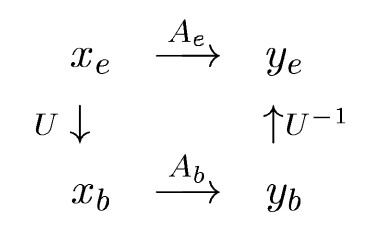
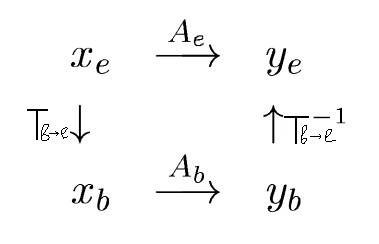
Поправки в 17, 21, 22 билетах (улучшения, связанные с матрицей перехода от базиса к базису, с матрицей линейного оператора и с преобразованиями координат вектора одного базиса в другой)

Changed region(s): [[0.058, 0.4303, 0.1741, 0.5738], [0.7546, 0.459, 0.8707, 0.6025]]

diff --git a/tickets/module1/ticket17.tex b/tickets/module1/ticket17.tex
@@ -27,17 +27,35 @@ $$\vec{c_i} = b \begin{pmatrix} \alpha_{1i} \\ \vdots \\ \alpha_{ni} \end{pmatri
 
 или
 
-$$c = bU,$$
+$$c = bT_{b \to c},$$
 
 где
 
 \begin{equation*}
-    U = \left(\begin{array}{ccc}
+    T_{b \to c} = \left(\begin{array}{ccc}
         \alpha_{11} & \ldots & \alpha_{1n} \\
         \hdotsfor{3} \\
         \alpha_{n1} & \ldots & \alpha_{nn}
     \end{array}\right).
 \end{equation*}
+
+\subsection{
+    *Полезное дополнение про преобразование координат вектора при переходе от старого базиса к новому.
+}
+
+Выберем произвольный вектор $\vec{x} \in \mathcal{L}$ и разложим его в старом базисе $b$:
+
+$$\vec{x} = bx_b, \quad \quad x_b = \begin{pmatrix} x_1 \\ \vdots \\ x_n \end{pmatrix}.$$
+
+Разложение того же вектора в новом базисе $c$ имеет вид:
+
+$$\vec{x} = cx_c, \quad \quad x_c = \begin{pmatrix} x_1' \\ \vdots \\ x_n' \end{pmatrix}.$$
+
+Найдем связь между старыми координатами $x_b$ вектора $\vec{x}$ и его новыми координатами $x_c$. Из соотношений выше следует, что $bx_b = cx_c$. Учитывая, что $c = bT_{b \to c}$, получаем 
+$$bx_b = (bT_{b \to c})x_c,$$ или 
+$$bx_b = b(T_{b \to c}x_c).$$ 
+Последнее равенство можно рассматривать как запись двух разложений одного и того же вектора $\vec{x}$ в базисе $b$. Разложениями соответствуют столбцы координат $x_b$ и $T_{b \to c}x_c$, которые, согласно теореме \ref{thm:theorem_2_3} о единственности разложения вектора по базису, должны быть равны:
+$$x_b = T_{b \to c}x_c, \quad \quad \text{или} \quad \quad x_c = T^{-1}_{b \to c}x_b.$$
 
 
 \newpage
@@ -53,34 +71,33 @@ $$c = bU,$$
     \item Матрица перехода невырождена и всегда имеет обратную.
     \begin{proof}~
 
-        Столбцы матрицы перехода - столбцы координат векторов нового \textbf{базиса} в старом. Следовательно, они, как и векторы базиса, линейно независимы. Значит, матрица $U$ невырожденная и имеет обратную матрицу $U^{-1}$.
+        Столбцы матрицы перехода - столбцы координат векторов нового \textbf{базиса} в старом. Следовательно, они, как и векторы базиса, линейно независимы. Значит, матрица $T$ невырожденная и имеет обратную матрицу $T^{-1}$.
     \end{proof}
     
-    \item Если в $n$-мерном линейном пространстве задан базис $b$, то для любой невырожденной квадратной матрицы $U$ порядка $n$ существует такой базис $c$ в этом линейном пространстве, что $U$ будет матрицей перехода то базиса $b$ к базису $c$.
+    \item Если в $n$-мерном линейном пространстве задан базис $b$, то для любой невырожденной квадратной матрицы $T$ порядка $n$ существует такой базис $c$ в этом линейном пространстве, что $T$ будет матрицей перехода то базиса $b$ к базису $c$.
     \begin{proof}~
 
-        Из невырожденности матрицы $U$ следует, что ее ранг ранг равен $n$, и поэтому ее столбцы, будучи базисными, линейно независимы. Эти столбцы являются столбцами координат векторов системы $c = bU$. Линейная независимость столбцов матрицы $U$ равносильная линейной независимости системы векторов $c$. Так как система $c$ содержит $n$ векторов, причем линейное пространство $n$-мерно, то согласно теореме $\eqref{thm:theorem_2_1}$, эта система является базисом.
+        Из невырожденности матрицы $T$ следует, что ее ранг ранг равен $n$, и поэтому ее столбцы, будучи базисными, линейно независимы. Эти столбцы являются столбцами координат векторов системы $c = bT_{b \to c}$. Линейная независимость столбцов матрицы $T$ равносильна линейной независимости системы векторов $c$. Так как система $c$ содержит $n$ векторов, причем линейное пространство $n$-мерно, то согласно теореме $\eqref{thm:theorem_2_1}$, эта система является базисом.
     \end{proof}
     
-    \item Если $U$ - матрица перехода от старого базиса $b$ к новому базису $c$ линейного пространства, то $U^{-1}$ - матрица перехода от базиса $c$ к базису $b$.
+    \item Если $T_{b \to c}$ - матрица перехода от старого базиса $b$ к новому базису $c$ линейного пространства, то $T^{-1}_{b \to c}$ - матрица перехода от базиса $c$ к базису $b$.
     \begin{proof}~
 
-        Матрица $U$ невырождена, и поэтому из равенства $c = bU$ следует, что $cU^{-1} = b$. Последнее равенство означает, что столбцы матрицы $U^{-1}$ являются столбцами координат векторов $b$ относительно базиса $c$, т.е. согласно определению $\eqref{fig:definition_17_1}$ $U^{-1}$ - это матрица перехода от базиса $c$ к базису $b$.
+        Матрица $T_{b \to c}$ невырождена, и поэтому из равенства $c = bT_{b \to c}$ следует, что $cT^{-1}_{b \to c} = b$. Последнее равенство означает, что столбцы матрицы $T^{-1}_{b \to c}$ являются столбцами координат векторов $b$ относительно базиса $c$, т.е. согласно определению $\eqref{fig:definition_17_1}$ $T^{-1}_{b \to c}$ - это матрица перехода от базиса $c$ к базису $b$.
     \end{proof}
 
-    \item Если в линейном пространстве заданы базисы $b, c$ и $d$, причем $U$ - матрица перехода от базиса $b$ к новому базису $c$, а $V$ - матрица перехода от базиса $c$ к базису $d$, то произведение этих матриц $UV$ - матрица перехода от базиса $b$ к базису $d$.
+    \item Если в линейном пространстве заданы базисы $b, c$ и $d$, причем $T_{b \to c}$ - матрица перехода от базиса $b$ к новому базису $c$, а $U_{c \to d}$ - матрица перехода от базиса $c$ к базису $d$, то произведение этих матриц $T_{b \to c}U_{c \to d}$ - матрица перехода от базиса $b$ к базису $d$.
     \begin{proof}~
 
         Согласно определению $\eqref{fig:definition_17_1}$ матрицы перехода, имеем равенства
-        $$c = bU, \quad d = cV,$$
+        $$c = bT_{b \to c}, \quad d = cU_{c \to d},$$
         откуда
-        $$d = cV = (bU)V = b(UV),$$
-        т.е. $UV$ - матрица перехода от базиса $b$ к базису $d$.
+        $$d = cU_{c \to d} = (b T_{b \to c}) \cdot U_{c \to d} = b(T_{b \to c} \cdot U_{c \to d}),$$
+        т.е. $T_{b \to c} \cdot U_{c \to d} = K_{b \to d}$ - матрица перехода от базиса $b$ к базису $d$.
     \end{proof}
 
-    \item Пусть $b_1, b_2, \ldots, b_n$ - это $n$ базисов линейного пространства $V$ ($n \geq 4$). $U_k$ - матрица перехода от $b_k$ к $b_{k + 1}$, $k = \overline{1, n - 1}$. Тогда матрица перехода от $b_1$ к $b_n$ равна $U_1U_2 \ldots U_{n - 1}$.
+    \item Пусть $b_1, b_2, \ldots, b_n$ - это $n$ базисов линейного пространства $\mathcal{V}$ ($n \geq 4$). $T_k$ - матрица перехода от $b_k$ к $b_{k + 1}$, $k = \overline{1, n - 1}$. Тогда матрица перехода от $b_1$ к $b_n$ равна $T_1\cdot T_2 \cdot \ldots \cdot T_{n - 1}$.
     \begin{proof}
         Последовательное применение свойства 4°.
     \end{proof}
 \end{enumerate}
-

diff --git a/tickets/module2/ticket21.tex b/tickets/module2/ticket21.tex
@@ -79,7 +79,7 @@ $$\mathscr{A}\vec{e_n} = a_{1n}\vec{f_1} + \ldots + a_{mn}\vec{f_m},$$
 }
 
 \begin{theorem}
-    Пусть $\mathscr{A} \colon \mathcal{L} \to \mathcal{L}$ - линейный оператор. Тогда столбец $y$ координат вектора $\vec{y} = \mathscr{A}\vec{x}$ в данном базисе $b$ линейного пространства $\mathcal{L}$ равен произведению $Ax$ матрицы $A$ оператора $\mathscr{A}$ в базисе $b$ на столбец $x$ координат вектора $\vec{x}$ в том же базисе: $y = Ax$.
+    Пусть $\mathscr{A} \colon \mathcal{L} \to \mathcal{L}$ - линейный оператор. Тогда столбец $y_b$ координат вектора $\vec{y} = \mathscr{A}\vec{x}$ в данном базисе $b$ линейного пространства $\mathcal{L}$ равен произведению $A_bx_b$ матрицы $A_b$ оператора $\mathscr{A}$ в базисе $b$ на столбец $x_b$ координат вектора $\vec{x}$ в том же базисе: $y_b = A_bx_b$.
     \label{thm:theorem_21_1}
 \end{theorem}
 
@@ -89,13 +89,18 @@ $$\mathscr{A}\vec{e_n} = a_{1n}\vec{f_1} + \ldots + a_{mn}\vec{f_m},$$
     \begin{align*}
         \vec{y} &= \mathscr{A}\vec{x} =  \mathscr{A}(x_1\vec{b_1} + \ldots + x_n\vec{b_n}) = x_1(\mathscr{A}\vec{b_1}) + \ldots + x_n(\mathscr{A}\vec{b_n}) = \\
         &= x_1(a_{11}\vec{b_1} + \ldots + a_{n1}\vec{b_n}) + \ldots + x_n(a_{1n}\vec{b_1} + \ldots + a_{nn}\vec{b_n}) = \\
-        &= (a_{11}x_1 + \ldots + a_{1n}x_n)\vec{b_1} + \ldots + (a_{n1}x_1 + \ldots + a_{nn}x_n)\vec{b_n}
+        &= (a_{11}x_1 + \ldots + a_{1n}x_n)\vec{b_1} + \ldots + (a_{n1}x_1 + \ldots + a_{nn}x_n)\vec{b_n} = \\
+        &= b \cdot \begin{pmatrix} 
+            a_{11}x_1 + \ldots + a_{1n}x_n \\
+            \vdots \\
+            a_{n1}x_1 + \ldots + a_{nn}x_n
+        \end{pmatrix}
     \end{align*}
 
-    Столбец координат вектора $\mathscr{A}\vec{x}$ в базисе $b$ имеет вид
+    Столбец координат вектора $\vec{y} = \mathscr{A}\vec{x}$ в базисе $b$ имеет вид
 
     \begin{equation*}
-        \begin{pmatrix} 
+        y_b = (\mathscr{A}\vec{x})_b = \begin{pmatrix} 
             a_{11}x_1 + \ldots + a_{1n}x_n \\
             \vdots \\
             a_{n1}x_1 + \ldots + a_{nn}x_n
@@ -109,9 +114,13 @@ $$\mathscr{A}\vec{e_n} = a_{1n}\vec{f_1} + \ldots + a_{mn}\vec{f_m},$$
             x_1 \\
             \vdots \\
             x_n
-        \end{pmatrix} = Ax
+        \end{pmatrix} = A_bx_b
     .\end{equation*}
 \end{proof}
+
+\begin{corollary}
+    $\vec{y} = \mathscr{A}\vec{x} = bA_bx_b.$
+\end{corollary}
 
 
 \newpage
@@ -131,9 +140,9 @@ $$(\mathscr{B}\mathscr{A})(\lambda\vec{x} + \mu\vec{y}) = \mathscr{B}(\mathscr{A
 Введенный линейный оператор $\mathscr{B}\mathscr{A}$ называют \textit{\textbf{произведением линейных операторов}} $\mathscr{B}$ и $\mathscr{A}$.
 
 \begin{theorem}
-    Пусть в линейном пространстве $\mathcal{L}$ действуют линейные операторы $\mathscr{A}$ и $\mathscr{B}$, а $A$ и $B$ - матрицы этих линейных операторов в некотором базисе $b$. Тогда матрицей линейного оператора $\mathscr{B}\mathscr{A}$ в том же базисе $b$ является матрица $BA$.
+    Пусть в линейном пространстве $\mathcal{L}$ действуют линейные операторы $\mathscr{A}$ и $\mathscr{B}$, а $A_b$ и $B_b$ - матрицы этих линейных операторов в некотором базисе $b$. Тогда матрицей линейного оператора $\mathscr{B}\mathscr{A}$ в том же базисе $b$ является матрица $B_bA_b$.
 \end{theorem}
 
 \begin{proof}
-    $(\mathscr{B}\mathscr{A})\vec{x} = \mathscr{B}(\mathscr{A}\vec{x}) = \mathscr{B}(bA\vec{x}) = b(\mathscr{B}(\mathscr{A}\vec{x})) = b(B(A\vec{x})) = b(\mathscr{B}\mathscr{A})\vec{x}.$
+    $\vec{y} = (\mathscr{B}\mathscr{A})\vec{x} = \mathscr{B}(\mathscr{A}\vec{x}) = \mathscr{B}(bA_bx_b) = b(B_b(A_bx_b)) = b(B_bA_b)x_b.$
 \end{proof}

diff --git a/tickets/module2/ticket22.tex b/tickets/module2/ticket22.tex
@@ -9,20 +9,19 @@
 \begin{theorem}
     Матрицы $A_b$ и $A_e$ линейного оператора $\mathscr{A} \colon \mathcal{L} \to \mathcal{L}$, записанные в базисах $b$ и $e$ линейного пространства $\mathcal{L}$, связаны друг с другом соотношением
     
-    $$A_e = U^{-1}A_bU,$$
-    где $U = U_{b \to e}$ матрица перехода от базиса $b$ к базису $e$.
+    $$A_e = T^{-1}_{b \to e}A_bT_{b \to e}.$$
 \end{theorem}
 
 \begin{proof}~
 
     Пусть $\vec{y} = \mathscr{A}\vec{x}$. Обозначим координаты векторов $\vec{x}$ и $\vec{y}$ в старом базисе $b$ через $x_b$ и $y_b$, а в новом базисе $e$ - через $x_e$ и $y_e$. Поскольку действие линейного оператора $\mathscr{A}$ в матричной форме в базисе $b$ имеет вид $y_b = A_bx_b$ (\textbf{*}см. теорему \ref{thm:theorem_21_1}), а координаты векторов $\vec{x}$ и $\vec{y}$ в новом и старом базисах связаны между собой равенствами (\textbf{*}см. билет 17.)
 
-    $$x_b = Ux_e, \quad \quad y_b = Uy_e,$$
+    $$x_b = T_{b \to e}x_e, \quad \quad y_b = T_{b \to e}y_e,$$
 
     то получаем
 
-    $$y_e = U^{-1}y_b = U^{-1}(A_bx_b) = U^{-1}(A_bUx_e) = (U^{-1}A_bU)x_e.$$
-    Равенство $y_e = (U^{-1}A_bU)x_e$ является матричной формой записи действия линейного оператора $\mathscr{A}$ в базисе $e$ и поэтому, согласно теореме \ref{thm:theorem_21_1}, $U^{-1}A_bU = A_e$. 
+    $$y_e = T^{-1}_{b \to e}y_b = T^{-1}_{b \to e}(A_bx_b) = T^{-1}_{b \to e}(A_bT_{b \to e}x_e) = (T^{-1}_{b \to e}A_bT_{b \to e})x_e.$$
+    Равенство $y_e = (T^{-1}_{b \to e}A_bT_{b \to e})x_e$ является матричной формой записи действия линейного оператора $\mathscr{A}$ в базисе $e$ и поэтому, согласно теореме \ref{thm:theorem_21_1}, $T^{-1}_{b \to e}A_bT_{b \to e} = A_e$. 
 
     Изложенное доказательство теоремы хорошо иллюстрирует следующая диаграмма:
 

diff --git a/main.tex b/main.tex
@@ -30,7 +30,7 @@
     % \include{tickets/module1/ticket14}
     % \include{tickets/module1/ticket15}
     % \include{tickets/module1/ticket16}
-    % \include{tickets/module1/ticket17}
+    \include{tickets/module1/ticket17}
     % \include{tickets/module1/ticket18}
     % \include{tickets/module1/ticket19}
     % \include{tickets/module1/ticket20}
@@ -38,22 +38,22 @@
     \include{tickets/module2/ticket21}
     \include{tickets/module2/ticket22}
     \include{tickets/module2/ticket23}
-    \include{tickets/module2/ticket24}
-    \include{tickets/module2/ticket25}
-    \include{tickets/module2/ticket26}
-    \include{tickets/module2/ticket27}
-    \include{tickets/module2/ticket28}
-    \include{tickets/module2/ticket29}
-    \include{tickets/module2/ticket30}
-    \include{tickets/module2/ticket31}
-    \include{tickets/module2/ticket32}
-    \include{tickets/module2/ticket33}
-    \include{tickets/module2/ticket34}
-    \include{tickets/module2/ticket35}
-    \include{tickets/module2/ticket36}
-    \include{tickets/module2/ticket37}
-    \include{tickets/module2/ticket38}
-    \include{tickets/module2/ticket39}
-    \include{tickets/module2/ticket40}
+    % \include{tickets/module2/ticket24}
+    % \include{tickets/module2/ticket25}
+    % \include{tickets/module2/ticket26}
+    % \include{tickets/module2/ticket27}
+    % \include{tickets/module2/ticket28}
+    % \include{tickets/module2/ticket29}
+    % \include{tickets/module2/ticket30}
+    % \include{tickets/module2/ticket31}
+    % \include{tickets/module2/ticket32}
+    % \include{tickets/module2/ticket33}
+    % \include{tickets/module2/ticket34}
+    % \include{tickets/module2/ticket35}
+    % \include{tickets/module2/ticket36}
+    % \include{tickets/module2/ticket37}
+    % \include{tickets/module2/ticket38}
+    % \include{tickets/module2/ticket39}
+    % \include{tickets/module2/ticket40}
 
 \end{document}

diff --git a/tickets/module2/ticket23.tex b/tickets/module2/ticket23.tex
@@ -7,7 +7,7 @@
 }
 
 \begin{definition}
-    \textbf{\textit{Образом}} оператора $\mathscr{A}$ называется множество всех $\vec{y} \in \mathcal{W}$, представимых в виде $\vec{y} = \mathscr{A}\vec{x}$.
+    \textbf{\textit{Образом}} оператора $\mathscr{A}$ называется множество всех векторов $\vec{y} \in \mathcal{W}$, представимых в виде $\vec{y} = \mathscr{A}\vec{x}$.
 \end{definition}
 
 \begin{designation}
@@ -15,7 +15,7 @@
 \end{designation}
 
 \begin{definition}
-    \textbf{\textit{Ядром}} оператора $\mathscr{A}$ называется множество всех $\vec{x} \in \mathcal{V} \colon \mathscr{A}\vec{x} = \vec{0}_{\mathcal{W}}$.
+    \textbf{\textit{Ядром}} оператора $\mathscr{A}$ называется множество всех векторов $\vec{x} \in \mathcal{V} \colon \mathscr{A}\vec{x} = \vec{0}_{\mathcal{W}}$.
 \end{definition}
 
 \begin{designation}
@@ -37,3 +37,7 @@
 \begin{designation}
     $\defect \mathscr{A}$.
 \end{designation}
+
+\subsection{
+    Теорема про размерности.
+}

diff --git a/tickets/module1/ticket02.tex b/tickets/module1/ticket02.tex
@@ -146,6 +146,7 @@
 
 \begin{theorem}
     В линейном пространстве разложение любого вектора по данному базису единственно.
+    \label{thm:theorem_2_3}
 \end{theorem}
 
 \begin{proof}
